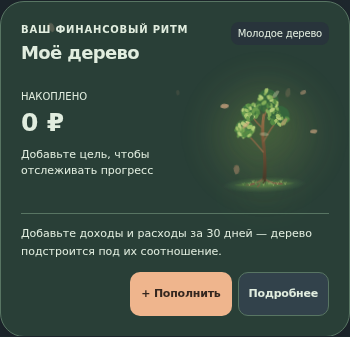
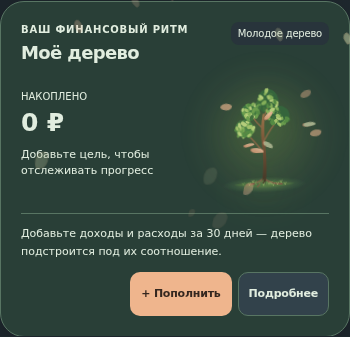
Strengthen Forest leaves and Peach petal motion without changing Lagoon

diff --git a/design-system.css b/design-system.css
@@ -513,7 +513,7 @@ body .sprout-hint { text-align: center; color: var(--text-muted); font-size: 10p
 @keyframes sproutGlint { from { transform: translateX(-130%); } to { transform: translateX(130%); } }
 @keyframes sproutLetter { from { transform: translateY(110%); opacity: .25; } to { transform: translateY(0); opacity: 1; } }
 @keyframes sproutDot { 0% { transform: translateY(-15px) scale(.4); opacity: 0; } 65% { transform: translateY(2px) scale(1.12); opacity: 1; } 100% { transform: translateY(0) scale(1); opacity: 1; } }
-@keyframes sproutMote { 0% { opacity: 0; transform: translate(var(--mx),calc(var(--my) + 20px)) rotate(-25deg); } 25%,65% { opacity: .5; } 100% { opacity: 0; transform: translate(calc(var(--mx) + var(--drift)),calc(var(--my) - 30px)) rotate(60deg); } }
+@keyframes sproutMote { 0% { opacity: 0; transform: translate(var(--mx),calc(var(--my) + 20px)) rotate(-25deg); } 25%,65% { opacity: .78; } 100% { opacity: 0; transform: translate(calc(var(--mx) + var(--drift) * 1.8),calc(var(--my) - 50px)) rotate(60deg); } }
 @keyframes sproutRule { from { opacity: 0; transform: scaleX(.05); } to { opacity: .75; transform: scaleX(1); } }
 @keyframes sproutExit { from { opacity: 1; } to { opacity: 0; } }
 @keyframes sproutSceneExit { to { opacity: 0; transform: translateY(-12px) scale(1.025); } }
@@ -1796,7 +1796,7 @@ body .tx-row-menu > span { display: grid; place-items: center; width: 30px; heig
 body .tx-row-menu[aria-expanded=true] > span { border-color: var(--border-active); background: var(--accent-soft); }
 @media(max-width:360px) { body .tx-row-open { grid-template-columns: minmax(0,1fr); } body .tx-row-open .tx-amount { justify-self: end; } }
 
-/* v62 · a different natural atmosphere for each palette. Fourteen particles,
+/* v62–63 · a different natural atmosphere for each palette. Bounded particles,
  * transform/opacity only; entirely decorative and below dialogs/navigation. */
 body #theme-atmosphere {
   position: fixed; inset: 0; width: min(100%,448px); margin-inline: auto;
@@ -1810,14 +1810,15 @@ body .theme-particle {
   border-radius: 85% 0 85% 0; background: #8fa35f;
   animation: themeLeaf var(--duration) var(--delay) linear infinite;
 }
+body .theme-particle:nth-child(n + 15) { display: none; }
 body .theme-particle:nth-child(3n) { background: #c8a65b; }
 body .theme-particle:nth-child(3n + 1) { background: #6d9361; }
 @keyframes themeLeaf {
   0% { opacity: 0; transform: translate(0,-12px) rotate(-30deg); }
-  12% { opacity: .38; }
-  35% { transform: translate(var(--sway),calc(var(--travel) * .32)) rotate(85deg) scaleX(.45); }
-  65% { opacity: .3; transform: translate(calc(var(--sway) * -.5),calc(var(--travel) * .62)) rotate(210deg) scaleX(-.8); }
-  88% { opacity: .35; }
+  12% { opacity: var(--weather-peak,.38); }
+  35% { transform: translate(calc(var(--sway) * var(--gust,1)),calc(var(--travel) * .32)) rotate(85deg) scaleX(.45); }
+  65% { opacity: calc(var(--weather-peak,.38) * .8); transform: translate(calc(var(--sway) * -.5 * var(--gust,1)),calc(var(--travel) * .62)) rotate(210deg) scaleX(-.8); }
+  88% { opacity: calc(var(--weather-peak,.38) * .9); }
   100% { opacity: 0; transform: translate(var(--sway),var(--travel)) rotate(320deg); }
 }
 @keyframes themeSnow {
@@ -1829,9 +1830,9 @@ body .theme-particle:nth-child(3n + 1) { background: #6d9361; }
 }
 @keyframes themePetal {
   0% { opacity: 0; transform: translate(0,-12px) rotate(-15deg) scaleX(.8); }
-  15% { opacity: .5; }
-  40% { transform: translate(calc(var(--sway) * 1.2),calc(var(--travel) * .34)) rotate(70deg) scaleX(.45); }
-  70% { opacity: .4; transform: translate(calc(var(--sway) * -.5),calc(var(--travel) * .66)) rotate(155deg) scaleX(.9); }
+  15% { opacity: var(--weather-peak,.5); }
+  40% { transform: translate(calc(var(--sway) * 1.2 * var(--gust,1)),calc(var(--travel) * .34)) rotate(70deg) scaleX(.45); }
+  70% { opacity: calc(var(--weather-peak,.5) * .8); transform: translate(calc(var(--sway) * -.5 * var(--gust,1)),calc(var(--travel) * .66)) rotate(155deg) scaleX(.9); }
   100% { opacity: 0; transform: translate(var(--sway),var(--travel)) rotate(225deg); }
 }
 html[data-visual-style='sapphire'] body .theme-particle {
@@ -1844,6 +1845,27 @@ html[data-visual-style='growth'] body .theme-particle {
 }
 html[data-visual-style='growth'] body .theme-particle:nth-child(3n) { background: #b6be98; }
 html[data-visual-style='growth'] body .theme-particle:nth-child(3n + 1) { background: #e7bc9f; }
+/* v63 · a fuller breeze in Forest and Peach, without increasing Lagoon snow. */
+html:is([data-visual-style='forest'],[data-visual-style='growth']) body .theme-particle {
+  --weather-peak: .78; --gust: 1.9; display: block;
+  width: calc(var(--size) * 1.7); height: calc(var(--size) * 1.05);
+  animation-duration: calc(var(--duration) * .74);
+}
+html[data-visual-style='forest'] body .theme-particle {
+  background-image: linear-gradient(32deg,transparent 45%,rgba(239,243,178,.55) 48%,transparent 55%);
+  border-bottom: 1px solid rgba(61,99,41,.35);
+}
+html:is([data-visual-style='forest'],[data-visual-style='growth']) body .theme-particle:nth-child(4n) {
+  width: calc(var(--size) * 2.15); height: calc(var(--size) * 1.35);
+  animation-duration: calc(var(--duration) * .63);
+}
+html[data-visual-style='growth'] body .theme-particle {
+  --weather-peak: .85; --gust: 1.65; height: calc(var(--size) * 2.1);
+  animation-duration: calc(var(--duration) * .86);
+  background-image: linear-gradient(135deg,rgba(255,234,213,.5),transparent 65%);
+  border: 1px solid rgba(164,99,66,.25);
+}
+html[data-visual-style='growth'] body .theme-particle:nth-child(4n) { height: calc(var(--size) * 2.4); }
 body #theme-atmosphere[data-paused='true'] .theme-particle { animation-play-state: paused; }
 body:has(#returning-splash:not(.hidden),#onboarding-screen:not(.hidden),dialog[open],[role='dialog'][aria-modal='true']:not(.hidden)) #theme-atmosphere { visibility: hidden; }
 body:has(#returning-splash:not(.hidden),#onboarding-screen:not(.hidden),dialog[open],[role='dialog'][aria-modal='true']:not(.hidden)) .theme-particle { animation-play-state: paused; }
@@ -1894,11 +1916,32 @@ html[data-visual-style='sapphire'] body .is-growing .sprout-mote { animation-nam
   100% { opacity: 0; transform: translate(var(--mx),calc(var(--my) + 90px)); }
 }
 html[data-visual-style='growth'] body .sprout-light { background: radial-gradient(ellipse at 53% 40%,rgba(228,178,139,.2),transparent 54%),radial-gradient(ellipse at 95% 0%,rgba(174,191,153,.15),transparent 52%); }
-html[data-visual-style='growth'] body .sprout-mote { width: 7px; height: 10px; border-radius: 80% 30% 75% 35%; background: #d9a17b; }
+html[data-visual-style='growth'] body .sprout-mote { width: 11px; height: 16px; border-radius: 80% 30% 75% 35%; background: #d9a17b; }
 html[data-visual-style='growth'] body .is-growing .sprout-mote { animation-name: sproutPetal; }
 @keyframes sproutPetal {
   0% { opacity: 0; transform: translate(var(--mx),calc(var(--my) - 22px)) rotate(-20deg); }
-  30%,65% { opacity: .65; }
-  50% { transform: translate(calc(var(--mx) + var(--drift)),var(--my)) rotate(65deg) scaleX(.5); }
+  30%,65% { opacity: .9; }
+  50% { transform: translate(calc(var(--mx) + var(--drift) * 1.7),var(--my)) rotate(65deg) scaleX(.5); }
   100% { opacity: 0; transform: translate(var(--mx),calc(var(--my) + 60px)) rotate(150deg); }
 }
+
+/* Larger local leaf/petal accents stay clipped to the tree art, never its sums.
+ * Preserve six distinct rhythms instead of synchronising the larger particles. */
+body #filely-financial-tree .ft-falling-leaf:nth-child(2) { --ft-period: 7.6s; }
+body #filely-financial-tree .ft-falling-leaf:nth-child(3) { --ft-period: 5.9s; }
+body #filely-financial-tree .ft-falling-leaf:nth-child(4) { --ft-period: 8.3s; }
+body #filely-financial-tree .ft-falling-leaf:nth-child(5) { --ft-period: 7.1s; }
+body #filely-financial-tree .ft-falling-leaf:nth-child(6) { --ft-period: 8.8s; }
+html[data-visual-style='forest'] body #filely-financial-tree .ft-falling-leaf {
+  width: 13px; height: 8px; animation-duration: calc(var(--ft-period,6.8s) * .8);
+  background-image: linear-gradient(30deg,transparent 44%,rgba(240,239,177,.6) 48%,transparent 55%);
+}
+html[data-visual-style='forest'] body #filely-financial-tree .ft-falling-leaf:nth-child(even) { width: 10px; height: 6px; }
+html[data-visual-style='growth'] body #filely-financial-tree .ft-falling-leaf {
+  --weather-peak: .95; --gust: 1.5; width: 10px; height: 13px;
+  animation-duration: calc(var(--ft-period,6.8s) * .85); background-image: linear-gradient(135deg,rgba(255,232,206,.6),transparent 65%);
+}
+html[data-visual-style='growth'] body #filely-financial-tree .ft-falling-leaf:nth-child(even) { width: 8px; height: 11px; }
+html:is([data-visual-style='forest'],[data-visual-style='growth']) body #filely-financial-tree .ft-wind-leaf { width: 11px; height: 7px; }
+html[data-visual-style='forest'] body .sprout-mote { width: 9px; height: 14px; background: #9bae58; }
+html[data-visual-style='forest'] body .sprout-mote:nth-of-type(even) { background: #c7a75c; }

diff --git a/index.html b/index.html
@@ -18,7 +18,7 @@
   <script src="./appearance.js?v=62"></script>
   <script src="./cloud.js?v=39"></script>
   <link rel="stylesheet" href="./styles.css?v=22" />
-  <link rel="stylesheet" href="./design-system.css?v=62" />
+  <link rel="stylesheet" href="./design-system.css?v=63" />
 </head>
 <body class="max-w-md mx-auto min-h-screen relative select-none">
 
@@ -1893,7 +1893,7 @@
   <script src="./stories_recap.js?v=34" data-fintex-mod="stories_recap.js"></script>
   <script src="./financial-tree-model.js?v=33"></script>
   <script src="./financial_tree.js?v=62"></script>
-  <script src="./theme-atmosphere.js?v=62"></script>
+  <script src="./theme-atmosphere.js?v=63"></script>
   <script src="./capture-model.js?v=43"></script>
   <script src="./capture.js?v=43"></script>
   <script src="./behavior-model.js?v=44"></script>

diff --git a/theme-atmosphere.js b/theme-atmosphere.js
@@ -8,7 +8,7 @@
   layer.setAttribute('aria-hidden', 'true');
   layer.inert = true;
   const fragment = document.createDocumentFragment();
-  for (let i = 0; i < 14; i++) {
+  for (let i = 0; i < 24; i++) {
     const particle = document.createElement('i');
     particle.className = 'theme-particle';
     particle.style.cssText = `--x:${(i * 37 + 5) % 100}%;--duration:${12 + i % 5 * 2}s;--delay:${-i * 2.7}s;--sway:${i % 2 ? -24 : 30}px;--size:${4 + i % 4}px`;

diff --git a/README.md b/README.md
@@ -347,3 +347,7 @@ npm run test:ui
 Характер темы согласован в пятисекундной заставке, на дереве и в лёгкой фоновой атмосфере всех разделов. Фоновый слой ограничен 14 декоративными элементами, ослаблен над центральной областью с цифрами, не получает фокус/касания (`inert`, `aria-hidden`, `pointer-events:none`) и находится ниже панелей и модальных окон. Только CSS transform/opacity, без canvas, таймеров кадров, внешних запросов, новых разрешений или зависимостей. В скрытой вкладке движение приостанавливается; во время заставки, знакомства и открытых модальных окон фоновый слой скрыт и приостановлен. При отключении движений или системном reduced-motion частицы полностью убираются. Старые настройки `lagoon`/`sapphire` открывают ту же синюю палитру; ключ хранения `sapphire` намеренно сохранён. Выбор темы меняет сезон, но не финансовый вид дерева, баланс, операции или накопления.
 
 Регрессии `tests/theme-atmosphere.spec.cjs`: смена всех тем без накопления узлов/перезапуска страницы, пять зимних видов и обратное переключение, сохранность финансового состояния, motion/reduced-motion/видимость/модальные окна, конечность заставки, касания на 320/390px в шести сочетаниях, локальная резервная иллюстрация при ошибке загрузки. Превью тем: `docs/lagoon-winter-tree-preview.png`, `docs/lagoon-winter-entrance-preview.png`, `docs/growth-petals-tree-preview.png`.
+
+### Более выразительные Лес и персиковая тема — v63
+
+Усилены только **Лес** и **Тёплый рост**: вместо 14 отображаются 24 фоновых листа/лепестка, размеры увеличены примерно в 1,7–2,15 раза, добавлен ближний слой с отличающимися размером и скоростью. В Лесу сильнее боковой порыв и переворот, видна светлая прожилка; в персиковой теме — более крупные абрикосовые лепестки с мягким светом и широкой траекторией. Частицы у дерева и в конечной пятисекундной заставке тоже крупнее и контрастнее. Центральная маска над цифрами, отсутствие перехвата касаний и все остановки motion/reduced-motion/скрытая вкладка/модальные окна сохранены. В **Лагуне** по-прежнему видны ровно 14 снежинок с прежними размерами, временем и траекторией; дополнительные узлы скрыты и не анимируются. Новых циклов JS, зависимостей, обращений к сети или изменений финансового состояния нет. Добавлены регрессии плотности/размеров/порывов, неизменности снега и остановки усиленных эффектов в обеих темах.
